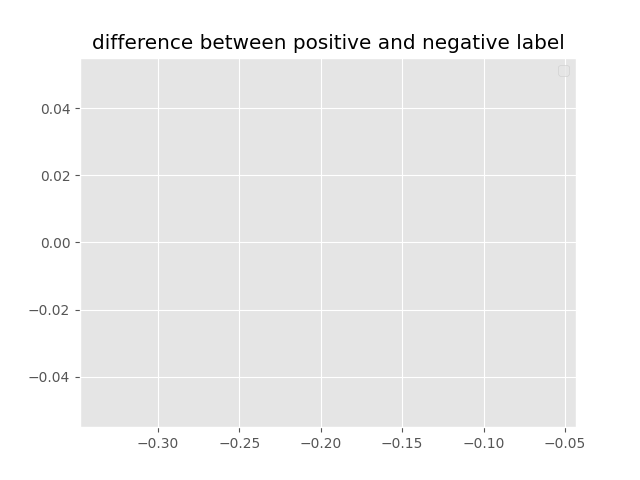
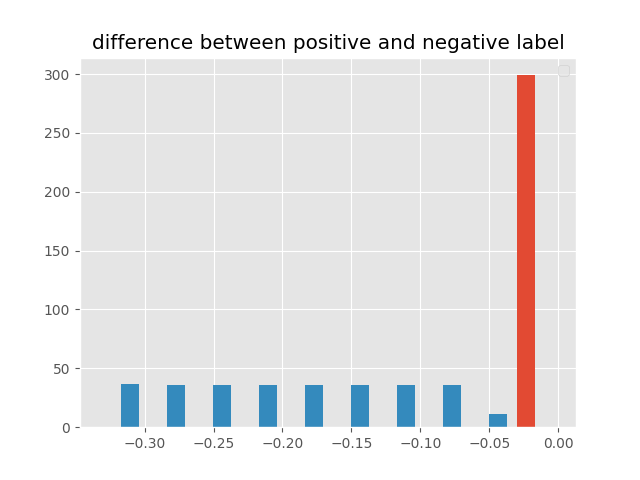
forgot index

diff --git a/plot_sentiment.py b/plot_sentiment.py
@@ -42,11 +42,12 @@ for i, row in data.iterrows():
 data.drop(data.index[delete_rows]) # delete rows with nan indexes
 
 def plot_uncertainty_diff():
-    n = 30
+    n = 300
     print(label_diff)
     bins = np.linspace(np.min(labels), np.max(labels), n)
     #bins = math.ceil((np.max(labels) - np.min(labels))/w) 
-    plt.hist(label_diff, bins=bins)
+    hist = np.histogram(label_diff, bins = bins)
+    plt.hist(hist)
     plt.legend()
     plt.title('difference between positive and negative label')
     plt.savefig('fig/uncertainty_diff.png')
